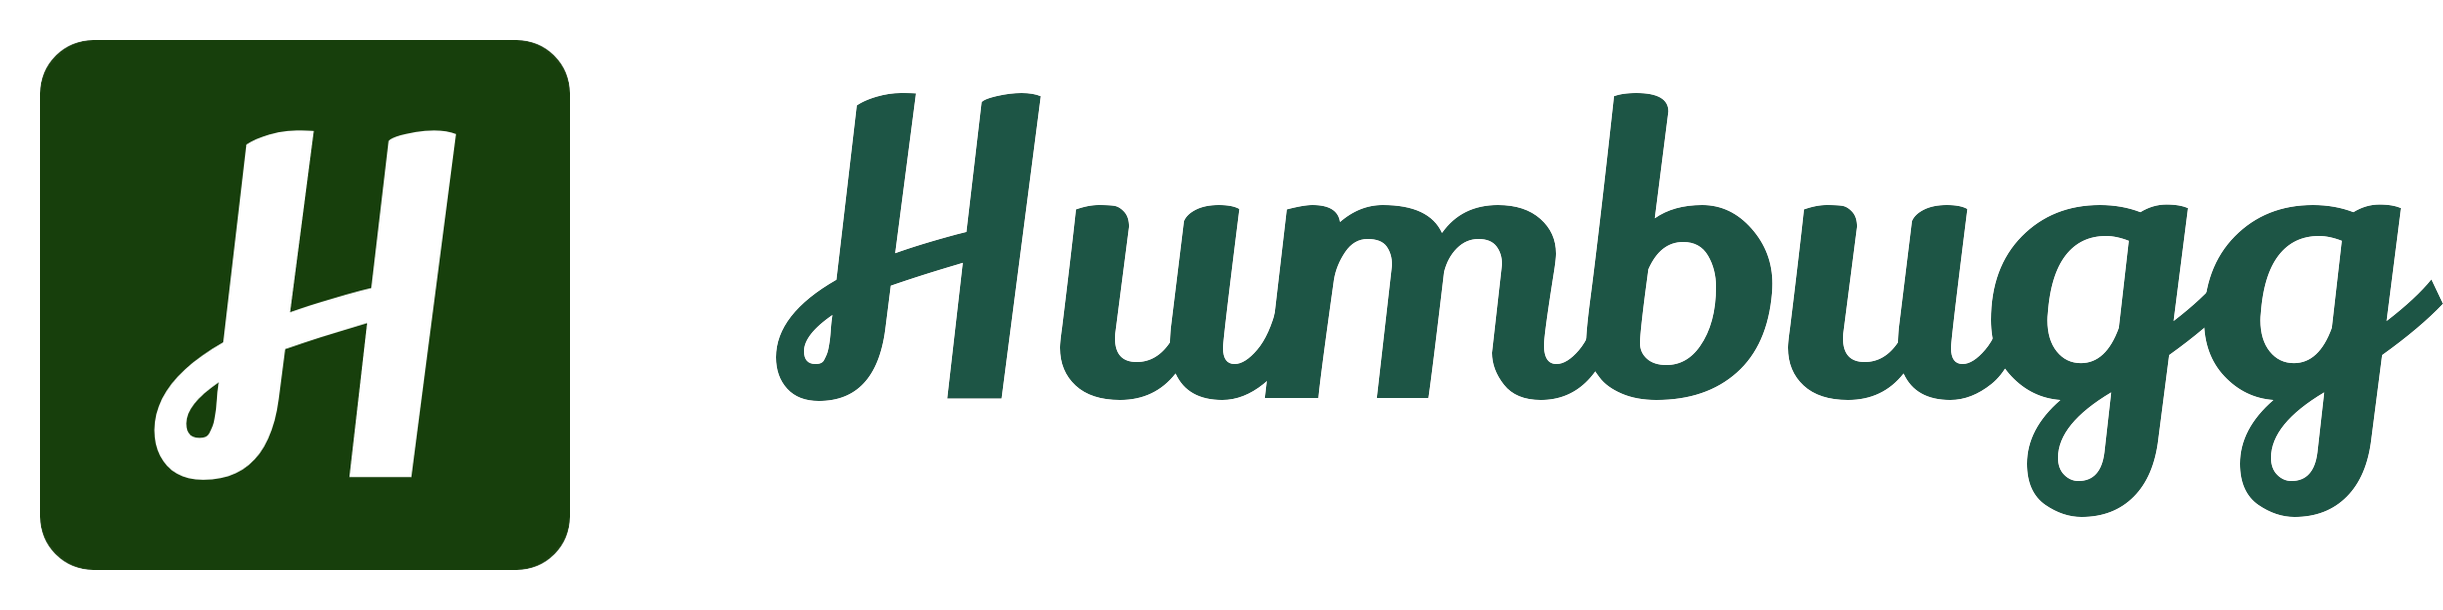
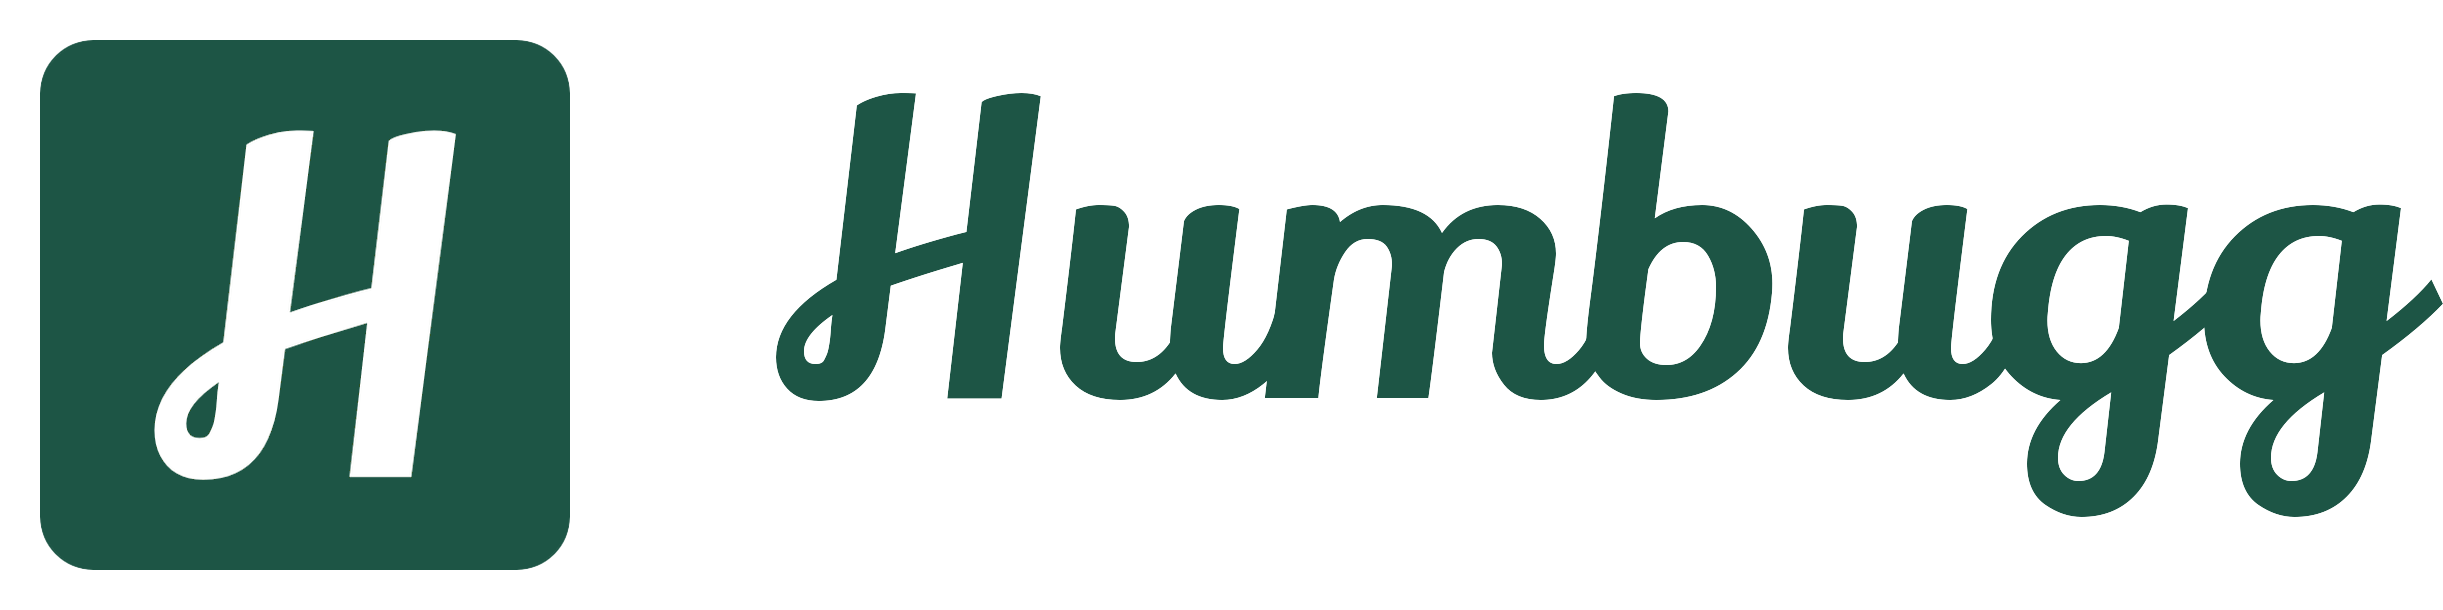
humbugg: the lockup's mark is on the brand green
The icon set is #173f0c; the token, the wordmark and the whole UI are
#1d5545, and the two met on the reel's end card. The lockup now recolours
the mark to the token. The icon files themselves are recorded as an open
decision in docs/marketing.md.

Changed region(s): [[0.0, 0.0623, 0.2489, 0.9344]]

diff --git a/humbugg/docs/marketing.md b/humbugg/docs/marketing.md
@@ -66,7 +66,11 @@ weight or face is not the logo.
 | **The lockup** — mark beside wordmark | `marketing/public/brand/humbugg-lockup.png` | social previews, partner pages |
 
 The SVGs embed the font, so they render identically without it installed.
-Colours: green `#1d5545`, cream `#fffdf8`, ink `#18332b`. The marketing site's
+Colours: green `#1d5545`, cream `#fffdf8`, ink `#18332b`. **The shipped icon set is
+not on that green**: `app/assets/images/icon.png`, the splash and every favicon are
+`#173f0c`, a darker, yellower green than the token the wordmark and the whole UI use.
+The lockup here and the reel recolour the mark to `#1d5545`; the icon files themselves
+are an open decision (found 2026-09-15 when the two greens met on the reel's end card). The marketing site's
 social preview (`marketing/app/assets/og.png`, 1200×630) is the wordmark as the
 heading with the anonymous chat under it, and nothing else (maintainer's call,
 2026-09-15: no mark beside the wordmark, no headline, no footer line). **The chat
